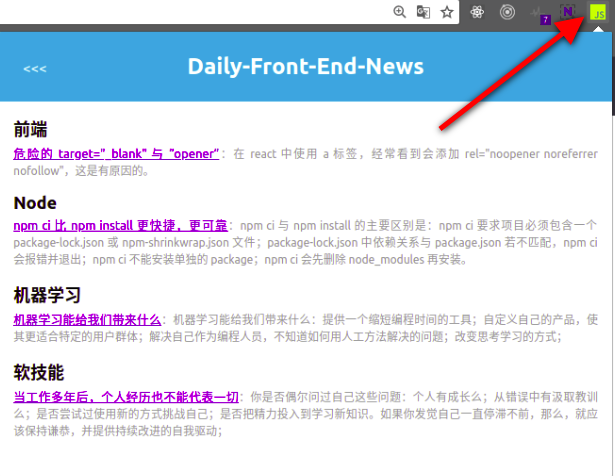
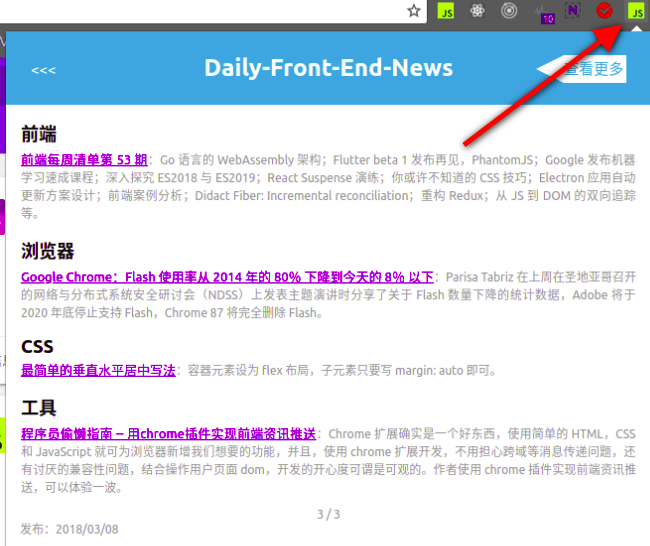
feat: 优化储存，添加发布日期，分页 :four_leaf_clover:

Changed region(s): [[0.0, 0.0, 1.0, 1.0], [0.4943, 0.9118, 0.5252, 0.9706]]

diff --git a/content/newsCard.js b/content/newsCard.js
@@ -1,30 +1,45 @@
 const NewsCard = {};
 
-NewsCard.init = function (paths) {
+NewsCard.init = function(paths) {
   const div = document.createElement('div');
   div.id = 'new-card';
   const root = document.body;
   root.insertBefore(div, root.firstChild);
 
-  this.paths = paths;
-}
+  if (paths.length !== 0) {
+    const currDate = formatDate(new Date());
+    const currPath = paths.includes(currDate)
+      ? currDate
+      : paths[paths.length - 1];
+    NewsCard.getCurrNew(currPath);
+  } else {
+    /* todo */
+  }
 
-NewsCard.addListeners = function () {
+  this.paths = paths;
+};
+
+NewsCard.addListeners = function() {
   const path = document.getElementById('path').innerText;
+  const more = document.getElementById('read-more');
   const paths = NewsCard.paths;
   const index = paths.indexOf(path);
   const length = paths.length;
+
+  if (path !== paths[paths.length - 1]) {
+    more.style.display = 'none';
+  }
+
   const prevPath = index === 0 ? null : paths[index - 1];
   const nextPath = index === length - 1 ? null : paths[index + 1];
-
   const left = document.getElementById('left-arrow');
   const right = document.getElementById('right-arrow');
 
   NewsCard.handleArrow(prevPath, left);
   NewsCard.handleArrow(nextPath, right);
-}
+};
 
-NewsCard.handleArrow = function (path, dom) {
+NewsCard.handleArrow = function(path, dom) {
   if (path) {
     dom.addEventListener('click', () => {
       NewsCard.getCurrNew(path);
@@ -32,22 +47,30 @@ NewsCard.handleArrow = function (path, dom) {
   } else {
     dom.style.display = 'none';
   }
-}
+};
 
-NewsCard.getCurrNew = function (path) {
-  chrome.runtime.sendMessage({
+NewsCard.getCurrNew = function(path) {
+  chrome.runtime.sendMessage(
+    {
       action: 'getCurrNew',
       path,
     },
     res => {
+      const paths = NewsCard.paths;
       const card = document.getElementById('new-card');
 
-      card.innerHTML = `<div id="path">${res.path}</div>
+      card.innerHTML = `<div class="publish-date">发布：<div id="path">${
+        res.path
+      }</div></div>
 <div id="left-arrow" class="card-arrow"><<<</div>
 <div id="right-arrow" class="card-arrow">>>></div>
-${res.text}`;
+<a href="${
+        res.repository
+      }" rel="noopener noreferrer" id="read-more" style="color: #00bcd4">查看更多</a>
+${res.text}
+<div class="pagination">${paths.indexOf(path) + 1} / ${paths.length}</div>`;
 
       NewsCard.addListeners();
     }
   );
-}
+};

diff --git a/background/index.js b/background/index.js
@@ -1,0 +1,57 @@
+const GITHUB = new API(
+  'https://api.github.com',
+  'fengshangwuqi',
+  'Front-End-News'
+);
+
+async function handleMessage(message, sender, sendResponse) {
+  const paths = News.getPaths() || [];
+  const currDate = formatDate(new Date());
+
+  switch (message.action) {
+    case 'initPopup':
+      if (paths.includes(currDate)) {
+        sendResponse(paths);
+      } else {
+        try {
+          const year = await GITHUB.getContent('history');
+          const lastYear = year.pop();
+          const month = await GITHUB.getContent(`history/${lastYear}`);
+          const lastMonth = month.pop();
+          const days = await GITHUB.getContent(
+            `history/${lastYear}/${lastMonth}`
+          );
+          const day = currDate.slice(-2);
+
+          if (days.includes(day)) {
+            paths.push(`${lastYear}/${lastMonth}/${day}`);
+          }
+
+          const newPaths = paths.length > 3 ? paths.slice(1) : paths;
+
+          News.savePaths(newPaths);
+          sendResponse(newPaths);
+        } catch (err) {
+          console.error(err);
+          sendResponse(paths);
+        }
+      }
+      break;
+    case 'getCurrNew':
+      const currPath = message.path;
+      const NEWS = new News(
+        'https://github.com/FengShangWuQi/Daily-Front-End-News',
+        `https://raw.githubusercontent.com/FengShangWuQi/Front-End-News/master/history/${currPath}/README.md`
+      );
+
+      sendResponse(await NEWS.getCurrNew(currPath));
+      break;
+    default:
+      sendResponse(false);
+  }
+}
+
+chrome.runtime.onMessage.addListener((message, sender, sendResponse) => {
+  handleMessage(message, sender, sendResponse);
+  return true;
+});

diff --git a/background/News.js b/background/News.js
@@ -1,5 +1,6 @@
 class News {
-  constructor(url) {
+  constructor(repository, url) {
+    this.repository = repository;
     this.url = url;
   }
 
@@ -7,16 +8,16 @@ class News {
     return JSON.parse(localStorage.getItem('FEDN-content'));
   }
 
-  static saveNew(news) {
-    localStorage.setItem('FEDN-content', news);
+  static saveNews(news) {
+    localStorage.setItem('FEDN-content', JSON.stringify(news));
   }
 
   static getPaths() {
     return JSON.parse(localStorage.getItem('FEDN-path'));
   }
 
-  static savePath(paths) {
-    localStorage.setItem('FEDN-path', paths);
+  static savePaths(paths) {
+    localStorage.setItem('FEDN-path', JSON.stringify(paths));
   }
 
   async getCurrNew(path) {
@@ -25,15 +26,19 @@ class News {
     let curr = record && record.text;
 
     if (!curr) {
-      const text = await fetch(this.url, {
-        method: 'GET',
-      }).then(res => res.text());
+      try {
+        const text = await fetch(this.url, {
+          method: 'GET',
+        }).then(res => res.text());
 
-      curr = await GITHUB.getMarkdown(text);
-      news.push({ path, text: curr });
-      News.saveNew(JSON.stringify(news));
+        curr = await GITHUB.getMarkdown(text);
+        news.push({ path, text: curr });
+        News.saveNews(news.length > 3 ? news.slice(1) : news);
+      } catch (err) {
+        console.error(err);
+      }
     }
 
-    return { path, text: curr };
+    return { repository: this.repository, path, text: curr };
   }
 }

diff --git a/style/popup.css b/style/popup.css
@@ -6,13 +6,28 @@ html {
   overflow: hidden;
 }
 
-#path {
-  display: none;
-}
-
 #new-card {
   margin: 0 0 40px;
   position: relative;
+}
+
+.publish-date {
+  position: absolute;
+  left: 14px;
+  bottom: -29px;
+  text-align: center;
+  color: #999;
+}
+
+#path {
+  display: inline-block;
+}
+
+.pagination {
+  position: relative;
+  top: 12px;
+  text-align: center;
+  color: #999;
 }
 
 blockquote {
@@ -23,6 +38,27 @@ blockquote {
   background: #00bcd4;
 }
 
+#read-more {
+  margin-top: -6px;
+  padding-right: 3px;
+  height: 28px;
+  text-decoration: none;
+  line-height: 28px;
+  background: #fff;  
+}
+
+#read-more::before {
+  content: '';
+  position: absolute;
+  left: -28px;
+  width: 0;
+  height: 0;
+  border-top: 14px solid transparent;
+  border-right: 28px solid #fff;
+  border-bottom: 14px solid transparent;
+}
+
+#read-more,
 .card-arrow {
   position: absolute;
   top: 30px;
@@ -35,6 +71,7 @@ blockquote {
   left: 25px;
 }
 
+#read-more,
 #right-arrow {
   right: 25px;
 }

diff --git a/popup.html b/popup.html
@@ -6,6 +6,7 @@
 	<link rel="stylesheet" href="style/popup.css">
 </head>
 <body>
+	<script src="utils/date.js"></script>
 	<script src="content/newsCard.js"></script>
 	<script src="content/popup.js"></script>
 </body>

diff --git a/content/popup.js b/content/popup.js
@@ -1,9 +1,8 @@
 chrome.runtime.sendMessage(
   {
-    action: 'getPath',
+    action: 'initPopup',
   },
   res => {
     NewsCard.init(res);
-    NewsCard.getCurrNew(res[res.length - 1]);
   }
 );

diff --git a/README.md b/README.md
@@ -25,6 +25,5 @@
 
 - [ ] 更换 icon；
 - [ ] 优化 UI；
-- [ ] 限制切换次数，优化储存；
 - [ ] 添加新内容，例如来源，作者信息，图片等；
 - [ ] 添加新功能，例如查看全部等；
